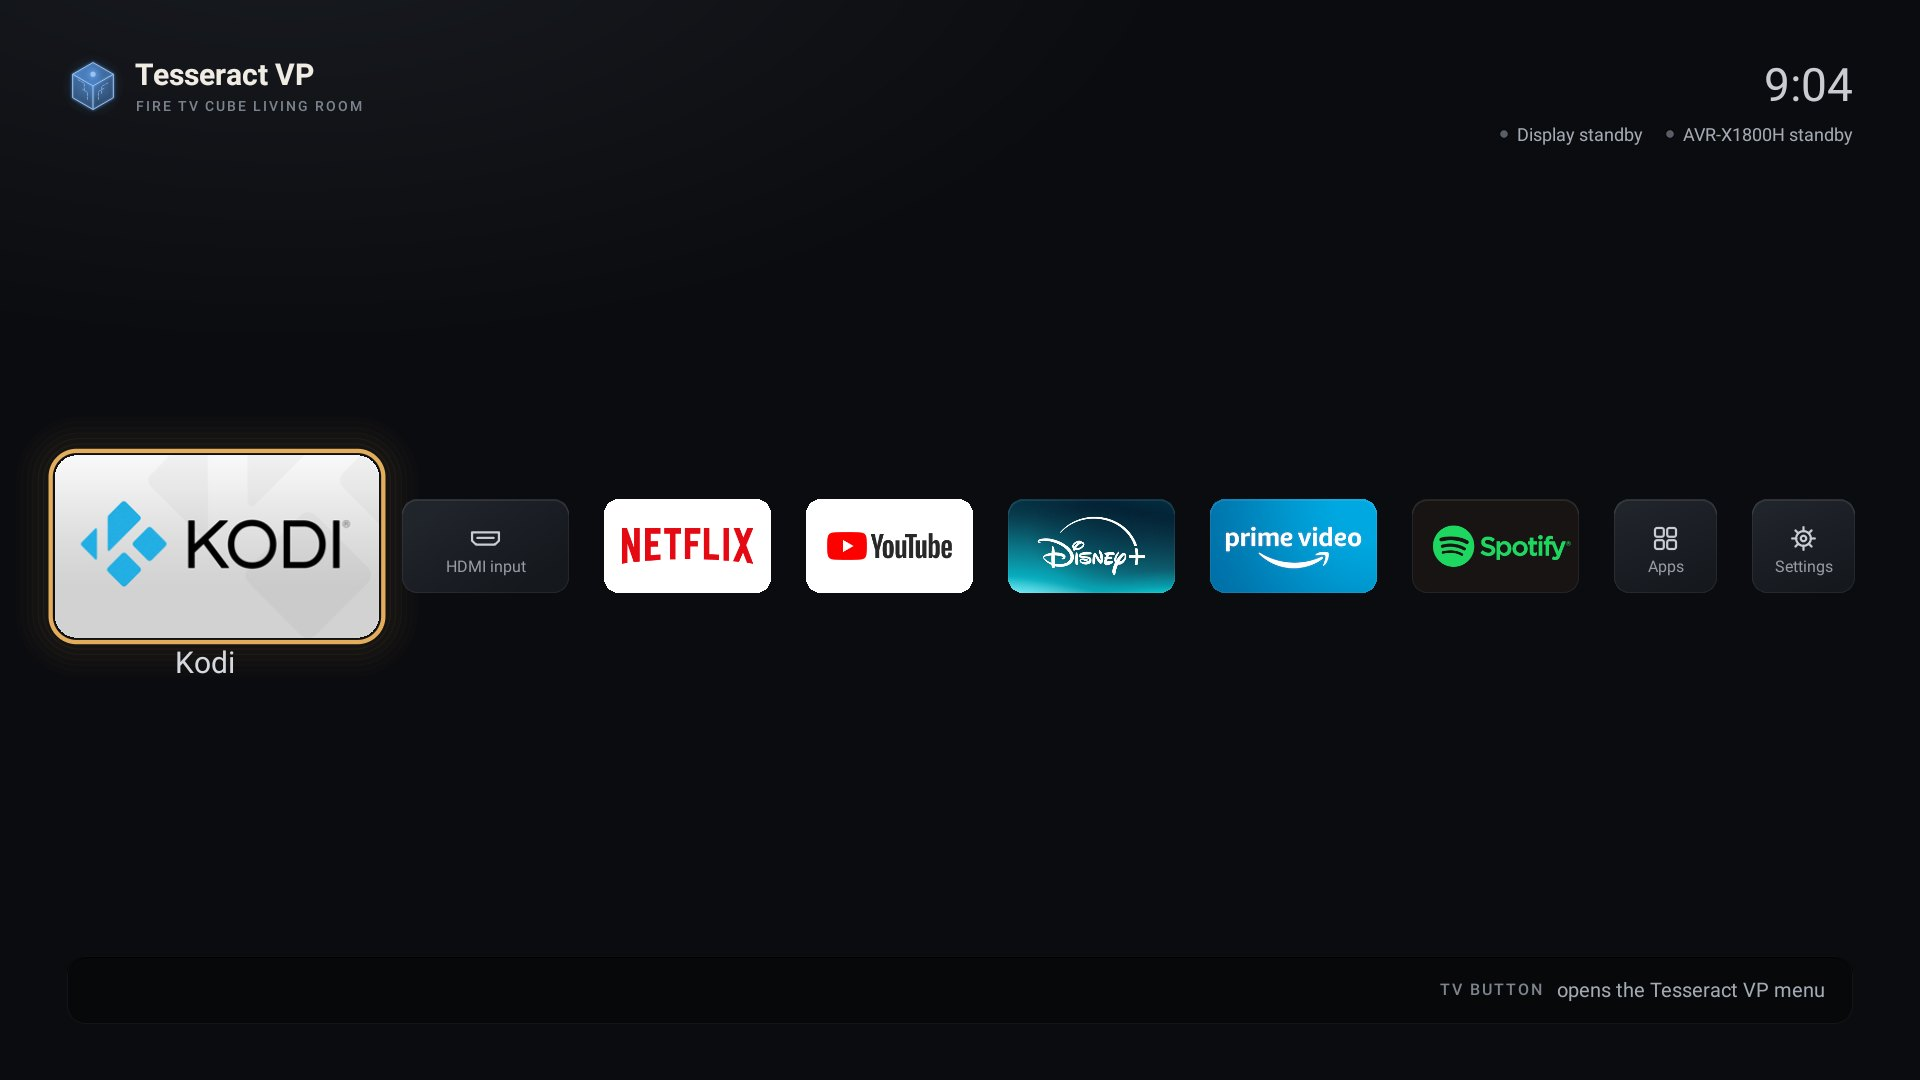
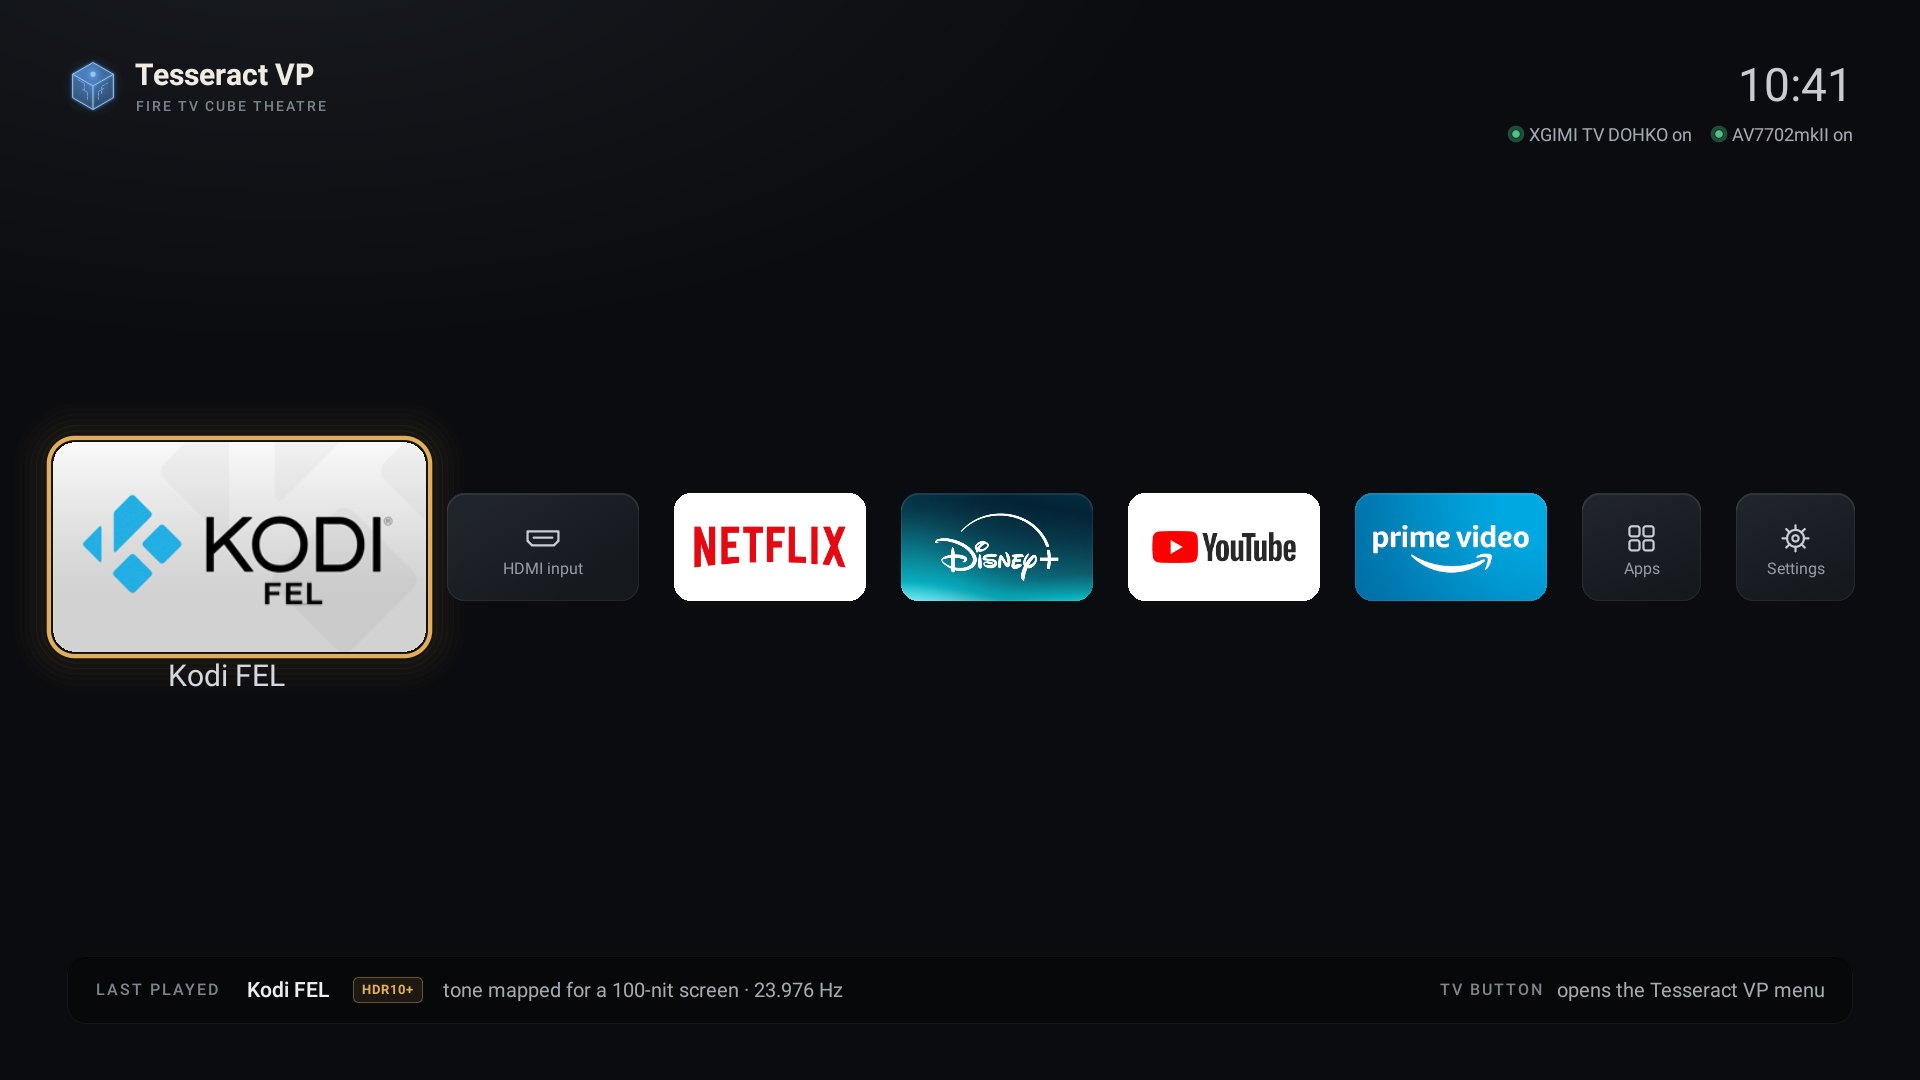
New screenshots: one-line picture controls, the full-screen settings with the Overlay tile, launcher 1.8 and its Settings tiles

diff --git a/README.md b/README.md
@@ -4,7 +4,7 @@
 
 Tesseract VP turns a Fire TV Cube into a video processor that sits between your sources and your screen. It tone maps every HDR picture to your display's real brightness, frame by frame. That covers the streaming apps (Netflix and Disney+ included), Kodi and the Cube's HDMI input. It is built for projectors and other displays that can't reach HDR brightness. It also gives you full control of the signal and sound that leave the box: output format, frame rate, aspect and masking, calibration and lossless audio.
 
-![The Tesseract VP control page during a 4K HDR10+ film, tone mapped to a 500-nit TV: the signal in and out, the measured peak, colour and clipping, the picture on screen, a live waveform, the tone curve and the Picture settings](docs/control-page.jpg)
+![The Tesseract VP control page during a 4K HDR10 film, tone mapped to a 100-nit projector: the signal in and out, the measured peak, the picture on screen, a live waveform, the tone curve and the Picture controls](docs/control-page.jpg)
 
 *The control page, open in any browser on your network.*
 
